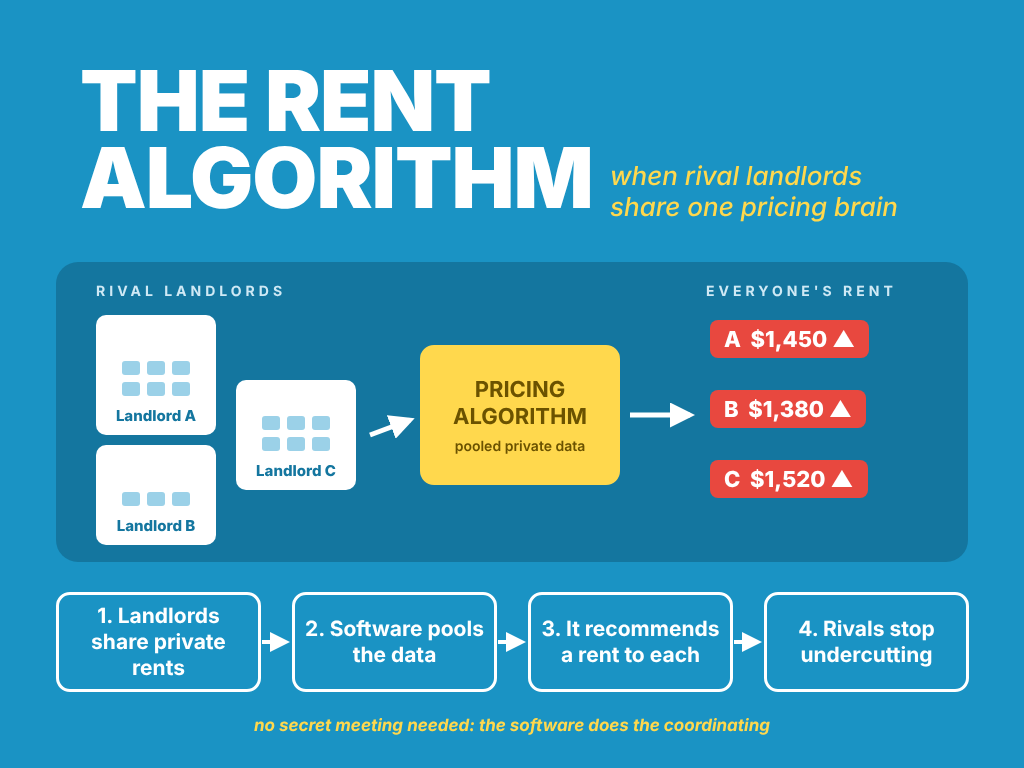
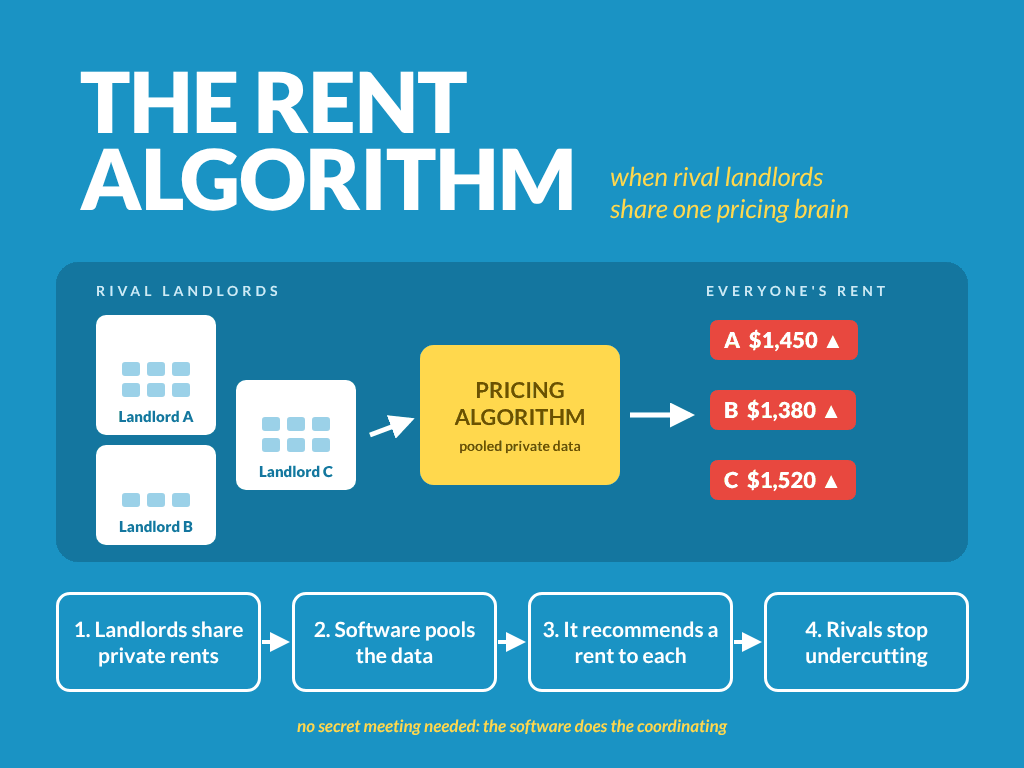
Illustrate the three new Everyday Algorithms posts and move them to the article layout
- Switch rent, shortcut and surge posts to layout: article with split hero and key-facts specs
- Add 10 inline diagrams in the middle-seat illustration style
- Add callouts, a Try it yourself box for each code example, and a Bottom Line band
- Re-render covers in Lato to match the series and compress all images

Claude-Session: https://claude.ai/code/session_01PQC6xjWM22T7jgka8qZFHP

diff --git a/web/_posts/2026-11-27-the-rent-algorithm.md b/web/_posts/2026-11-27-the-rent-algorithm.md
@@ -4,11 +4,16 @@ description: >-
   Millions of US apartments had their rents set with help from the same piece of software. Here's how RealPage's pricing algorithm worked, why the US Justice Department called it a cartel without a meeting room, and what the settlement changes.
 excerpt: >-
   No secret meeting, no handshake, no phone call. Just rival landlords feeding their private data into the same algorithm. How rent-pricing software ended up in an antitrust case.
-layout: showcase
+layout: article
+hero_style: split
 mode: light
 date: 2026-11-27
 author: Kevin McAleer
 difficulty: beginner
+specs:
+  Market share: about 80%
+  Suggestions adopted: up to 90%
+  Coordination cost: $25 per flat per month
 cover: /assets/img/blog/rent_algorithm/cover.png
 hero: /assets/img/blog/rent_algorithm/cover.png
 tags:
@@ -27,9 +32,12 @@ Now imagine all three quietly plug into the same piece of software. Each one han
 
 Nobody has met in a smoky back room. Nobody has shaken hands on a price. And yet the price war has stopped.
 
-That, in a nutshell, is the case the US Department of Justice brought against a company called RealPage. It's one of the clearest examples yet of an algorithm changing how a market behaves in a way that nobody would have predicted from the code alone.
+<figure class="text-center my-4">
+  <img src="/assets/img/blog/rent_algorithm/price-war.png" alt="Two charts: on the left three landlords' rents fall after one cuts its price; on the right three rents rise together" loading="lazy" class="img-fluid rounded-3">
+  <figcaption class="text-muted small mt-2">On their own, one price cut drags everyone down. Sharing one algorithm, nobody undercuts</figcaption>
+</figure>
 
----
+That, in a nutshell, is the case the US Department of Justice brought against a company called RealPage. It's one of the clearest examples yet of an algorithm changing how a market behaves in a way that nobody would have predicted from the code alone.
 
 ## What the software actually does
 
@@ -43,9 +51,9 @@ The software does three things:
 
 On paper a landlord can ignore the suggestion. In practice, a [2022 ProPublica investigation](https://www.propublica.org/article/yieldstar-rent-increase-realpage-rent) reported that "as many as 90%" of the software's suggestions were adopted, according to former RealPage employees. The DOJ said the company encouraged this with an "auto accept" feature and with pricing advisors "who monitor landlords' compliance."
 
-The DOJ also said RealPage held about **80% of the market** for this kind of software in multifamily housing. When four out of five big landlords in a city are asking the same oracle, the oracle starts to look a lot like a cartel.
-
----
+The DOJ also said RealPage held about **80% of the market** for this kind of software in multifamily housing. {% callout note "One oracle, many landlords" %}
+When four out of five big landlords in a city are asking the same oracle, the oracle starts to look a lot like a cartel.
+{% endcallout %}
 
 ## The ratchet hidden in the rules
 
@@ -53,7 +61,9 @@ The most interesting part of the case isn't the data sharing. It's the shape of 
 
 According to the DOJ's complaint, the software "tends to maximize price increases, minimize price decreases." Think of it as a ratchet: it turns easily one way and stiffly the other.
 
+{% callout try "Try it yourself" %}
 Here's a toy model you can run yourself to see why that matters. It isn't RealPage's code (nobody outside the company has that). It's a simple illustration of what an asymmetric pricing rule does over time.
+{% endcallout %}
 
 ```python
 import random
@@ -79,11 +89,18 @@ print(f"Symmetric pricing after 3 years: ${normal:,.0f}")
 print(f"Ratchet pricing after 3 years:   ${sticky:,.0f}")
 ```
 
-With that random seed, the symmetric rent ends up around **$730** and the ratchet rent around **$1,210**, even though demand is pure random noise with no upward trend at all. Try other seeds: the ratchet comes out on top almost every time. A single landlord using a sticky rule like this would just lose tenants to a cheaper rival down the street. But if the rival is running the same rule, there's nobody left to undercut you.
+With that random seed, the symmetric rent ends up around **$730** and the ratchet rent around **$1,210**, even though demand is pure random noise with no upward trend at all. Try other seeds: the ratchet comes out on top almost every time.
 
-That's the unexpected bit. **An algorithm that would fail in a competitive market can succeed when everyone uses it.**
+<figure class="text-center my-4">
+  <img src="/assets/img/blog/rent_algorithm/ratchet-chart.png" alt="Line chart over 36 months: the ratchet rent climbs to about $1,209 while the symmetric rent falls to about $727, above a bar chart of random demand" loading="lazy" class="img-fluid rounded-3">
+  <figcaption class="text-muted small mt-2">The output of the model above: same demand, very different rents</figcaption>
+</figure>
 
----
+A single landlord using a sticky rule like this would just lose tenants to a cheaper rival down the street. But if the rival is running the same rule, there's nobody left to undercut you.
+
+{% callout tip "The unexpected bit" %}
+**An algorithm that would fail in a competitive market can succeed when everyone uses it.**
+{% endcallout %}
 
 ## What the economists found
 
@@ -98,8 +115,6 @@ Their findings are more nuanced than the headlines, which is exactly why they're
 The White House Council of Economic Advisers built on that research in a [2024 issue brief](https://bidenwhitehouse.archives.gov/wp-content/uploads/2024/12/Appendix-for-CEA-Issue-Brief-The-Anticompetitive-Costs-of-Algorithmic-Pricing-in-Rental-Housing.pdf), and New York's governor later cited an estimate that price-fixing algorithms cost renters [$3.8 billion in a single year](https://www.governor.ny.gov/news/governor-hochul-signs-legislative-package-bolster-homeownership-and-strengthen-protections).
 
 ProPublica's reporting gives a more human-scale example from the prosecutors' case: one landlord "started increasing rents within a week" of adopting the software and had raised them by more than 25% within 11 months ([ProPublica, 2025](https://www.propublica.org/article/doj-realpage-settlement-rental-price-fixing-case)).
-
----
 
 ## So is using a pricing algorithm illegal?
 
@@ -118,8 +133,6 @@ So the legal line isn't "algorithms bad". It's much more specific:
 
 That table is, more or less, the shape of the settlement.
 
----
-
 ## What the settlement changes
 
 In November 2025 the DOJ [announced a proposed settlement](https://www.justice.gov/opa/pr/justice-department-requires-realpage-end-sharing-competitively-sensitive-information-and). If the court approves it, RealPage must:
@@ -129,19 +142,25 @@ In November 2025 the DOJ [announced a proposed settlement](https://www.justice.g
 - "Remove or redesign features that limited price decreases or aligned pricing between competing users". In other words, take the ratchet out.
 - Accept a court-appointed monitor.
 
-RealPage said the settlement involves no financial penalty and no admission of wrongdoing. The DOJ's separate case against several large landlords carries on. The largest, Greystar, settled in August 2025, again without admitting wrongdoing.
+{% callout warning "No admission" %}
+RealPage said the settlement involves no financial penalty and no admission of wrongdoing.
+{% endcallout %}
+
+The DOJ's separate case against several large landlords carries on. The largest, Greystar, settled in August 2025, again without admitting wrongdoing.
 
 Here's the clever bit that I haven't seen discussed much. The 12-month rule turns the shared dataset from a **live feed** into a **history book**. Year-old data is still useful for learning seasonal patterns ("rents rise in summer"), but it's useless for coordinating today's prices ("your rival just put their rent up, so you can too"). It's a neat engineering fix to a legal problem: the regulators didn't ban the machine learning, they changed what time the model is allowed to see.
 
----
+<figure class="text-center my-4">
+  <img src="/assets/img/blog/rent_algorithm/history-book.png" alt="Timeline: lease data older than 12 months is allowed for training, the most recent 12 months is off limits" loading="lazy" class="img-fluid rounded-3">
+  <figcaption class="text-muted small mt-2">Year-old data still teaches seasons and trends, but not what your rivals did this morning</figcaption>
+</figure>
 
 ## The states go further
 
 Some lawmakers decided that line-drawing wasn't enough. In October 2025 New York became, according to [Wilson Sonsini](https://www.wsgr.com/en/insights/new-york-prohibits-use-of-pricing-algorithms-for-rent-setting.html), "the first state to outright ban the use of pricing algorithms by landlords" that pool data from two or more owners to recommend rents. California passed its own law the same month.
 
----
-
-## Why this matters beyond rent
+{% fullwidth style="dark" %}
+## The Bottom Line
 
 The RealPage story is a preview of a problem that's going to keep coming up as more businesses hand pricing over to software:
 
@@ -150,8 +169,7 @@ The RealPage story is a preview of a problem that's going to keep coming up as m
 - **Where the data comes from matters as much as what the code does.** The same algorithm trained on your own data is a tool; trained on your competitors' live data, it's something else.
 
 If you're building anything that learns from data, from a robot that adapts its behaviour to a model that sets prices, it's worth asking the RealPage question: *whose data is this, and what happens when everyone uses the same model?*
-
----
+{% endfullwidth %}
 
 ## Sources
 

diff --git a/web/_posts/2026-12-11-the-surge-engine.md b/web/_posts/2026-12-11-the-surge-engine.md
@@ -4,11 +4,16 @@ description: >-
   Surge pricing is the algorithm everyone loves to hate. Uber's own data shows what happens when it switches off, round numbers change how riders behave, and the UK regulator found the Oasis ticket fiasco wasn't an algorithm at all.
 excerpt: >-
   When Uber's surge pricing broke on New Year's Eve, waits tripled. When Oasis tickets doubled in price, everyone blamed an algorithm that, according to the regulator, wasn't there. The strange psychology of prices that move.
-layout: showcase
+layout: article
+hero_style: split
 mode: light
 date: 2026-12-11
 author: Kevin McAleer
 difficulty: beginner
+specs:
+  Surge updates: every 5 minutes
+  Wait with surge broken: 8 minutes
+  Oasis algorithm found: none
 cover: /assets/img/blog/surge_engine/cover.png
 hero: /assets/img/blog/surge_engine/cover.png
 tags:
@@ -21,11 +26,13 @@ groups:
   - everyday-algorithms
 ---
 
+{% split image="/assets/img/blog/surge_engine/round-number.png" alt="Two phone screens showing a 2.0 times surge and a 2.1 times surge, with riders more likely to accept 2.1 times" caption="A higher multiplier that riders were more willing to accept" side="right" %}
 It's raining, it's late, and you open a ride-hailing app. The price is **2.1×** normal. You sigh, and you book it anyway.
 
-Few algorithms make people as angry as surge pricing. It feels like the app is kicking you while you're down. But the story of what surge pricing actually does, and what it gets blamed for, is far stranger than "big tech squeezes customers". It involves a broken server on New Year's Eve, the curious power of round numbers, and a ticket sale where the algorithm everyone blamed turned out, according to the regulator, not to exist.
+Few algorithms make people as angry as surge pricing. It feels like the app is kicking you while you're down.
+{% endsplit %}
 
----
+But the story of what surge pricing actually does, and what it gets blamed for, is far stranger than "big tech squeezes customers". It involves a broken server on New Year's Eve, the curious power of round numbers, and a ticket sale where the algorithm everyone blamed turned out, according to the regulator, not to exist.
 
 ## What the surge algorithm actually does
 
@@ -38,9 +45,12 @@ A higher price is meant to do two jobs at once:
 1. **Pull in drivers.** A 2× fare is a reason for a driver to log on, or to drive across town to where the riders are.
 2. **Sort the riders.** Some people decide to walk, wait or take the bus, leaving the cars for the people who most need them right now.
 
-That's the theory. The interesting question is whether it works, and that's where an accident comes in.
+<figure class="text-center my-4">
+  <img src="/assets/img/blog/surge_engine/surge-loop.png" alt="A four-step loop: riders outnumber drivers, the multiplier goes up, drivers head over and some riders wait, the gap closes and the multiplier drops, repeating every five minutes in each zone" loading="lazy" class="img-fluid rounded-3">
+  <figcaption class="text-muted small mt-2">Surge works like a thermostat for taxis, checking each zone every five minutes</figcaption>
+</figure>
 
----
+That's the theory. The interesting question is whether it works, and that's where an accident comes in.
 
 ## The night surge pricing broke
 
@@ -52,9 +62,14 @@ Uber's own economists, Jonathan Hall, Cory Kendrick and Chris Nosko, published a
 
 Without the price signal, rides didn't get cheaper for everyone. They simply became *unavailable* for a quarter of the people asking, and they went to whoever happened to tap first rather than whoever needed them most.
 
-Two health warnings. First, this is Uber's own research about Uber's own product, so treat it like a company's homework marked by the company. Second, TechCrunch noted a separate Washington Post analysis suggesting surge mostly *relocates* drivers already on the road rather than summoning new ones. Both can be true: surge can be good at moving cars to where they're needed without making the total pool much bigger.
+<figure class="text-center my-4">
+  <img src="/assets/img/blog/surge_engine/surge-outage.png" alt="Comparison: a concert with surge working had a 2.6 minute average wait; New Year's Eve with surge broken had 8 minute waits and 1 in 4 requests unfulfilled" loading="lazy" class="img-fluid rounded-3">
+  <figcaption class="text-muted small mt-2">Figures from Uber's own New York case study</figcaption>
+</figure>
 
----
+{% callout warning "Two health warnings" %}
+First, this is Uber's own research about Uber's own product, so treat it like a company's homework marked by the company. Second, TechCrunch noted a separate Washington Post analysis suggesting surge mostly *relocates* drivers already on the road rather than summoning new ones. Both can be true: surge can be good at moving cars to where they're needed without making the total pool much bigger.
+{% endcallout %}
 
 ## The nudge in the number
 
@@ -68,9 +83,9 @@ A plausible explanation is about how humans read numbers. A clean "2.0×" looks 
 
 Chen also revealed, according to [Engadget's write-up](https://www.engadget.com/2016-05-20-uber-surge-pricing-battery-life.html), that people whose phone battery is about to die are more willing to pay a surge price. The app knows your battery level (it uses it to switch into a power-saving mode). Chen was clear that Uber does **not** use battery level to set prices. But think about what that finding means: the company had the data to show that a desperate customer is a less price-sensitive customer, and the only thing standing between that insight and a pricing feature was a decision not to build it.
 
-That's the real lesson of algorithmic pricing. **The algorithm learns what you'll tolerate. Policy decides what it's allowed to act on.**
-
----
+{% callout tip "The real lesson" %}
+**The algorithm learns what you'll tolerate. Policy decides what it's allowed to act on.**
+{% endcallout %}
 
 ## The Oasis plot twist
 
@@ -88,9 +103,12 @@ What it found instead was older and simpler:
 
 So the villain wasn't a machine learning model watching demand in real time. It was a human-designed price list combined with a queue that hid information. It *felt* algorithmic because the price changed while people waited, and in 2024 "the algorithm did it" was the obvious explanation.
 
-Ticketmaster gave the CMA undertakings, "without any admission of wrongdoing or liability", to warn fans 24 hours in advance when tiered pricing is used, show the price range when people join a queue, update them when cheaper tickets sell out, drop misleading labels, and report to the CMA for two years. In Ireland, the [Irish Times reported](https://www.irishtimes.com/culture/music/2025/09/25/ticketmaster-commits-to-greater-price-transparency-after-oasis-sale/) that the Competition and Consumer Protection Commission is still investigating the Croke Park sale.
+<figure class="text-center my-4">
+  <img src="/assets/img/blog/surge_engine/oasis-queue.png" alt="A queue of fans: the first ones get standard-price tickets, then tier 1 sells out and everyone behind gets a higher fixed price without warning; the CMA found no evidence of algorithmic dynamic pricing" loading="lazy" class="img-fluid rounded-3">
+  <figcaption class="text-muted small mt-2">What the regulator actually found: two price tiers and a queue that kept quiet about them</figcaption>
+</figure>
 
----
+Ticketmaster gave the CMA undertakings, "without any admission of wrongdoing or liability", to warn fans 24 hours in advance when tiered pricing is used, show the price range when people join a queue, update them when cheaper tickets sell out, drop misleading labels, and report to the CMA for two years. In Ireland, the [Irish Times reported](https://www.irishtimes.com/culture/music/2025/09/25/ticketmaster-commits-to-greater-price-transparency-after-oasis-sale/) that the Competition and Consumer Protection Commission is still investigating the Croke Park sale.
 
 ## What makes a moving price feel fair?
 
@@ -105,17 +123,15 @@ Put the Uber and Oasis stories side by side and a pattern appears. People don't 
 
 That last row is the uncomfortable one. It means that how a price is *displayed* can change how fair it feels, without the price itself changing at all. That's a nudge, and companies know it works.
 
----
-
-## The takeaway
+{% fullwidth style="dark" %}
+## The Bottom Line
 
 Surge pricing is a neat bit of engineering: a feedback loop that uses price as a signal to balance supply and demand every five minutes, a bit like a thermostat for taxis. When it switched off on New Year's Eve, the system didn't become fairer; it just broke.
 
 But the same data that makes the loop work also reveals exactly how desperate, rushed or low-on-battery each of us is. The algorithm doesn't need to be evil to be worrying. It just needs to be good at learning, with nobody deciding what it's allowed to learn *from*.
 
 And the next time a price jumps while you're waiting and everyone blames "the algorithm"? Check first. Sometimes it's a machine. Sometimes, as Oasis fans found out, it's just a spreadsheet and a queue.
-
----
+{% endfullwidth %}
 
 ## Sources
 

diff --git a/web/_posts/2026-12-04-the-shortcut-paradox.md b/web/_posts/2026-12-04-the-shortcut-paradox.md
@@ -4,11 +4,16 @@ description: >-
   Every driver following their own fastest route sounds efficient. Maths from 1968 says it can make everyone slower. How navigation apps turn a game theory puzzle into real traffic, from Los Angeles back streets to a New Jersey town that shut its roads.
 excerpt: >-
   Add a new road and traffic gets worse. Remove one and it gets better. The 1968 maths puzzle that explains what happens when millions of drivers all follow their sat-nav.
-layout: showcase
+layout: article
+hero_style: split
 mode: light
 date: 2026-12-04
 author: Kevin McAleer
 difficulty: beginner
+specs:
+  Drivers: 4,000
+  Without the shortcut: 65 min
+  With the shortcut: 80 min
 cover: /assets/img/blog/shortcut_paradox/cover.png
 hero: /assets/img/blog/shortcut_paradox/cover.png
 tags:
@@ -26,8 +31,6 @@ Your sat-nav has one job: get *you* there as fast as possible. It looks at live 
 That sounds like it can only make things better. If everyone gets the fastest route, surely everyone gets there faster?
 
 Not quite. In 1968 a German mathematician called Dietrich Braess showed that when every driver picks their own best route, **adding a road can make every single journey slower**. For decades it was a curiosity in transport textbooks. Then we put a route-optimising computer in every car and every phone, and the curiosity moved onto real streets.
-
----
 
 ## The puzzle: 4,000 drivers and a shortcut
 
@@ -48,13 +51,20 @@ Once everyone has worked this out, all 4,000 drivers go Start → A → B → En
 
 Every single driver is 15 minutes slower than before the shortcut existed. And here's the cruel part: nobody can fix it on their own. If you switch back to the old route, your first leg is still 40 minutes (everyone else is on it) plus 45 on the motorway: 85 minutes. Staying on the shortcut is still your best choice. Everyone is stuck.
 
-Game theorists call this a **Nash equilibrium**: a situation where nobody can do better by changing only their own choice, even though everyone could do better if they all changed together.
+<figure class="text-center my-4">
+  <img src="/assets/img/blog/shortcut_paradox/braess-before-after.png" alt="Two road networks: before the shortcut 2,000 cars take each route and every trip takes 65 minutes; after it all 4,000 cars take the shortcut and every trip takes 80 minutes" loading="lazy" class="img-fluid rounded-3">
+  <figcaption class="text-muted small mt-2">Same drivers, same destination, one extra road: every trip gets 15 minutes longer</figcaption>
+</figure>
 
----
+{% callout note "Nash equilibrium" %}
+Game theorists call this a **Nash equilibrium**: a situation where nobody can do better by changing only their own choice, even though everyone could do better if they all changed together.
+{% endcallout %}
 
 ## Try it yourself
 
-You can simulate this with a few lines of Python. Each "driver" in turn looks at the current traffic and picks the fastest route, exactly like a sat-nav does:
+{% callout try "Try it yourself" %}
+You can simulate this with a few lines of Python. Each "driver" in turn looks at the current traffic and picks the fastest route, exactly like a sat-nav does.
+{% endcallout %}
 
 ```python
 DRIVERS = 4000
@@ -91,9 +101,9 @@ Shortcut open: False  routes: {'top': 2000, 'bottom': 2000, 'shortcut': 0}  jour
 Shortcut open: True  routes: {'top': 0, 'bottom': 0, 'shortcut': 4000}  journey: 80 min
 ```
 
+{% callout tip "The paradox in one line" %}
 Each driver made the smart choice. The crowd made the dumb one.
-
----
+{% endcallout %}
 
 ## It isn't just a textbook trick
 
@@ -104,8 +114,6 @@ The [Wikipedia article on the paradox](https://en.wikipedia.org/wiki/Braess%27s_
 - **Seoul, 2003–2005:** traffic around the city sped up after the Cheonggye Expressway was demolished and replaced with a park and stream.
 
 How bad can it get? In a famous paper, [How Bad Is Selfish Routing?](https://www.timroughgarden.org/papers/routing.pdf), computer scientists Tim Roughgarden and Éva Tardos proved that on networks where delays grow in a straight line with traffic, everyone choosing selfishly gives total journey times **at most 4/3 of the best possible**, or 33% worse. That's a worst case. In our example, a traffic controller who could tell drivers which way to go would send just 500 of them over the shortcut, for an average trip of about 64.7 minutes. Selfish routing gives 80, about 24% worse. This gap between what selfish drivers get and what a coordinator could achieve has a wonderful name: the **price of anarchy**.
-
----
 
 ## Enter the apps
 
@@ -119,8 +127,6 @@ Researchers at UC Berkeley's Institute of Transportation Studies, led by Théoph
 
 [NPR reported](https://www.npr.org/sections/alltechconsidered/2016/06/13/481871496/the-road-less-traveled-not-since-waze-came-to-los-angeles) on the same Sherman Oaks streets, where residents blamed Waze for morning queues of "thirty cars already just waiting" by 7 a.m. To be fair, the city's transport department pointed out that cut-through traffic "is definitely not new".
 
----
-
 ## The insight most articles miss: the advantage evaporates
 
 Here's the part of the Berkeley research I find most interesting, and it's buried in a table.
@@ -129,9 +135,14 @@ The team simulated a stretch of the I-210 with different shares of drivers using
 
 In other words, a navigation app is most valuable when *other people aren't using it*. Its edge comes from knowing a shortcut the crowd doesn't. As more drivers get the same advice, the shortcut fills up and the advantage drains away, slowly heading towards the Braess endpoint where everyone has the same "smart" route and nobody is better off.
 
-The authors are careful here: they say that in their model the rerouting "seems to make the system more efficient" overall, and they stress that their measurements "confirm phenomena and trends, but do not prove them". So this isn't proof that apps make traffic worse in general. It's evidence that the benefit is a relative one, and that the cost lands on people who aren't using the app at all: the residents of the side streets.
+<figure class="text-center my-4">
+  <img src="/assets/img/blog/shortcut_paradox/app-advantage.png" alt="Bar chart: when 25% of drivers use a navigation app they save 48% on travel time, at 50% they save 36%, at 75% they save 27%" loading="lazy" class="img-fluid rounded-3">
+  <figcaption class="text-muted small mt-2">The app's edge shrinks as more drivers get the same advice</figcaption>
+</figure>
 
----
+{% callout warning "What the study doesn't say" %}
+The authors are careful here: they say that in their model the rerouting "seems to make the system more efficient" overall, and they stress that their measurements "confirm phenomena and trends, but do not prove them". So this isn't proof that apps make traffic worse in general. It's evidence that the benefit is a relative one, and that the cost lands on people who aren't using the app at all: the residents of the side streets.
+{% endcallout %}
 
 ## When a town fights back
 
@@ -143,8 +154,6 @@ It didn't last. In August 2018 a state judge [struck the closures down](https://
 
 Leonia's story shows the real problem. The app is solving the right problem for each user and the wrong problem for the town. There's nobody whose job it is to optimise the whole network.
 
----
-
 ## What robots can teach sat-navs
 
 If you've ever built a robot that plans a path, you've used the same algorithms your sat-nav uses: Dijkstra's algorithm or A*. Each robot finds the shortest path from where it is to where it wants to be.
@@ -153,9 +162,16 @@ But look at a warehouse full of hundreds of delivery robots and you'll notice th
 
 That's the difference between a **user equilibrium** (everyone does what's best for them) and a **system optimum** (do what's best for everyone). Robot fleets can choose the second because one company owns all the robots. Roads can't, because every driver is their own boss.
 
-So the next time your sat-nav sends you on a wild detour through a housing estate to save ninety seconds, remember: it's playing a game against every other driver's sat-nav. And as Braess showed back in 1968, sometimes everyone playing that game perfectly is exactly how everyone loses.
+<figure class="text-center my-4">
+  <img src="/assets/img/blog/shortcut_paradox/fleet.png" alt="Two warehouse floor plans: on the left every robot queues in the same aisle; on the right a central planner spreads them across all the aisles" loading="lazy" class="img-fluid rounded-3">
+  <figcaption class="text-muted small mt-2">Selfish shortest paths jam one aisle; a fleet planner spreads the load</figcaption>
+</figure>
 
----
+{% fullwidth style="dark" %}
+## The Bottom Line
+
+So the next time your sat-nav sends you on a wild detour through a housing estate to save ninety seconds, remember: it's playing a game against every other driver's sat-nav. And as Braess showed back in 1968, sometimes everyone playing that game perfectly is exactly how everyone loses.
+{% endfullwidth %}
 
 ## Sources
 
